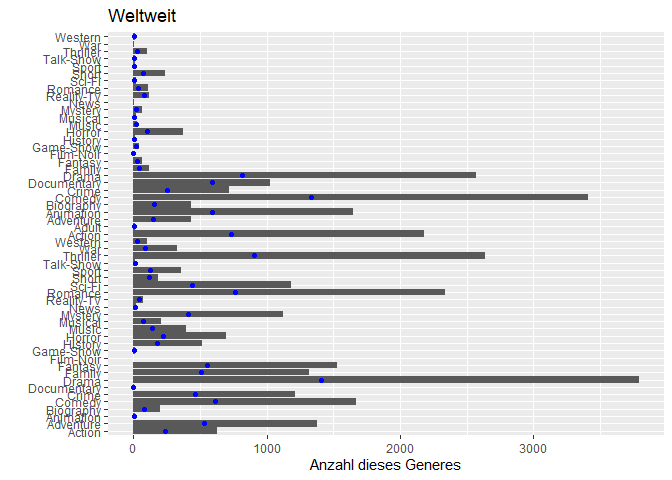
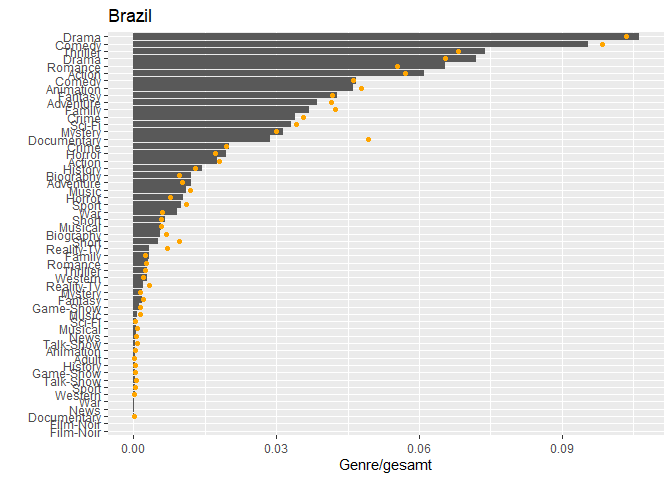
jtzt sauber, funtzt sogar, mit beobachtungen

diff --git a/Bericht_Henke_Keil_Reichmann.md b/Bericht_Henke_Keil_Reichmann.md
@@ -134,10 +134,10 @@ data %>%
 plots zu country und genere
 
 ``` r
-# vektoren mit zeilennamen zum angenehmen kopieren
+# vektoren mit zeilennamen zum einfacherern kopieren
 # c(colnames(data))
 
-columns_data = c("Title", "Genre" ,"Tags", "Languages", "Series or Movie", "Hidden Gem Score", "Country Availability", "Runtime", "Director", "Writer", "Actors", "View Rating", "IMDb Score", "Rotten Tomatoes Score", "Metacritic Score", "Awards Received", "Awards Nominated For", "Boxoffice", "Release Date", "Netflix Release Date", "Production House", "Netflix Link", "IMDb Link", "Summary", "IMDb Votes", "Image", "Poster", "TMDb Trailer", "Trailer Site")
+columns_data = c("Title", "Genre", "Tags", "Languages", "Series or Movie", "Hidden Gem Score", "Country Availability", "Runtime", "Director", "Writer", "Actors", "View Rating", "IMDb Score", "Rotten Tomatoes Score", "Metacritic Score", "Awards Received", "Awards Nominated For", "Boxoffice", "Release Date", "Netflix Release Date", "Production House", "Netflix Link", "IMDb Link", "Summary", "IMDb Votes", "Image", "Poster", "TMDb Trailer", "Trailer Site")
 
 columns_countries = c("Argentina", "Australia", "Belgium", "Brazil", "Canada", "Colombia", "Czech Republic", "France", "Germany", "Greece", "Hong Kong", "Hungary", "Iceland", "India", "Israel", "Italy", "Japan", "Lithuania", "Malaysia", "Mexico", "Netherlands", "Poland", "Portugal", "Romania", "Russia", "Singapore", "Slovakia", "South Africa", "South Korea", "Spain", "Sweden", "Switzerland", "Thailand", "Turkey", "United Kingdom", "United States")
 
@@ -145,99 +145,68 @@ columns_generes = c("Action", "Adult", "Adventure", "Animation", "Biography", "C
 
 #-------------------------------------------------------
 
-unimportand = c("Tags", "Languages", "Series or Movie", "Hidden Gem Score", "Runtime", "Director", "Writer", "Actors", "View Rating", "IMDb Score", "Rotten Tomatoes Score", "Metacritic Score", "Awards Received", "Awards Nominated For", "Boxoffice", "Release Date", "Netflix Release Date", "Production House", "Netflix Link", "IMDb Link", "Summary", "IMDb Votes", "Image", "Poster", "TMDb Trailer", "Trailer Site", "<NA>")
-
 sort_by_genre <- data%>%
+  select("Title", "Genre", "Country Availability")%>%
+  mutate(id = row_number())%>% # müssen eindeutig sein weil baum
   mutate("Yes" = TRUE)%>%
   separate_rows(Genre, sep = ", ")%>%
   spread(key = Genre, value = Yes)%>%
-  select(Title, `Country Availability`, columns_generes)
+  select(Title, `Country Availability`, columns_generes)%>%
+  separate_rows(`Country Availability`, sep = ",")
 #sort_by_genre
 
 sort_by_country <- data%>%
-  mutate("Yes" = TRUE)%>%
+  select("Title", "Genre", "Country Availability")%>%
+  mutate(id = row_number())%>% # müssen eindeutig sein weil baum
+  mutate("Yes" = TRUE)%>% 
   separate_rows(`Country Availability`, sep = ",")%>%
   spread(key = `Country Availability`, value = Yes)%>%
-  select(Title, Genre, columns_countries)
+  select(Title, Genre, columns_countries)%>%
+  separate_rows(Genre, sep = ",")
 #sort_by_country
-#----------------------
+
+#-------------------------------------------------------
 
 weltweit = sort_by_country%>%
-  separate_rows(Genre, sep = ",")%>%
-  ggplot(aes(y = reorder(Genre, Genre)))+
-  geom_histogram(stat="count")+
-  labs(title = "Weltweit",
-       x = "Anzahl dieses Generes", 
-       y = " ")
-weltweit
-
-germany <- sort_by_country%>%
-  separate_rows(Genre, sep = ",")%>%
-  filter(Germany == TRUE)%>%
-  ggplot(aes(y = reorder(Genre, Genre)))+
-  geom_histogram(stat="count", colour = "green")+
-  labs(title = "Germany",
-       x = "Anzahl dieses Generes", 
-       y = " ")
-
-  germany
-
-germany <- sort_by_country%>%
-  separate_rows(Genre, sep = ",")%>%
-  filter(Germany == TRUE)%>%
   count(Genre)%>%
-  ggplot()+
-  geom_point(aes(x = n, y = reorder(Genre, Genre)), colour = "green")
-germany
-#------------------------
-weltweit = sort_by_country%>%
-  separate_rows(Genre, sep = ",")%>%
-  count(Genre)%>%
-  drop_na()
-weltweit
-```
-
-    ## # A tibble: 55 x 2
-    ##    Genre              n
-    ##    <chr>          <int>
-    ##  1 " Action"        628
-    ##  2 " Adventure"    1380
-    ##  3 " Animation"      16
-    ##  4 " Biography"     203
-    ##  5 " Comedy"       1670
-    ##  6 " Crime"        1216
-    ##  7 " Documentary"     2
-    ##  8 " Drama"        3792
-    ##  9 " Family"       1316
-    ## 10 " Fantasy"      1529
-    ## # ... with 45 more rows
-
-``` r
-#---------------------
-total_specific <- sort_by_country%>%
-  count(France == TRUE)%>%
   drop_na()%>%
-  select(n)
+  mutate("prozent" = n/sum(n))
+#sum(weltweit$prozent)
+#---------------------
 
+for(i in columns_countries){
+  
 specific_country <- sort_by_country%>%
-  separate_rows(Genre, sep = ",")%>%
-  filter(Germany == TRUE)%>%
+  filter(!!as.symbol(i) == TRUE)%>% # ich rufe die gewünschte Spalte auf, obwohl ich nur einen Stig zur verfügung habe
   count(Genre)%>%
-  drop_na
+  drop_na()%>%
+  mutate("prozent" = n/sum(n))
+#sum(specific_country$prozent)
 
-sum(specific_country$n)
-```
-
-    ## [1] 13050
-
-``` r
-ggplot(NULL, aes(x = n, y = reorder(Genre, Genre))) +    # Draw ggplot2 plot based on two data frames
+my_plot = ggplot(NULL, aes(x = prozent, y = reorder(Genre, n))) +    # Draw ggplot2 plot based on two data frames
   geom_col(data = weltweit) +
-  geom_point(data = specific_country, col = "blue")+
-  labs(title = "Weltweit",
-       x = "Anzahl dieses Generes", 
+  geom_point(data = specific_country, col = "orange")+
+  labs(title = i,
+       x = "Genre/gesamt", 
        y = " ")
-#------------------------
+
+print(my_plot)
+}
 ```
 
-![](Bericht_Henke_Keil_Reichmann_files/figure-gfm/unnamed-chunk-4-1.png)![](Bericht_Henke_Keil_Reichmann_files/figure-gfm/unnamed-chunk-4-2.png)![](Bericht_Henke_Keil_Reichmann_files/figure-gfm/unnamed-chunk-4-3.png)![](Bericht_Henke_Keil_Reichmann_files/figure-gfm/unnamed-chunk-4-4.png)
+![](Bericht_Henke_Keil_Reichmann_files/figure-gfm/unnamed-chunk-4-1.png)![](Bericht_Henke_Keil_Reichmann_files/figure-gfm/unnamed-chunk-4-2.png)![](Bericht_Henke_Keil_Reichmann_files/figure-gfm/unnamed-chunk-4-3.png)![](Bericht_Henke_Keil_Reichmann_files/figure-gfm/unnamed-chunk-4-4.png)![](Bericht_Henke_Keil_Reichmann_files/figure-gfm/unnamed-chunk-4-5.png)![](Bericht_Henke_Keil_Reichmann_files/figure-gfm/unnamed-chunk-4-6.png)![](Bericht_Henke_Keil_Reichmann_files/figure-gfm/unnamed-chunk-4-7.png)![](Bericht_Henke_Keil_Reichmann_files/figure-gfm/unnamed-chunk-4-8.png)![](Bericht_Henke_Keil_Reichmann_files/figure-gfm/unnamed-chunk-4-9.png)![](Bericht_Henke_Keil_Reichmann_files/figure-gfm/unnamed-chunk-4-10.png)![](Bericht_Henke_Keil_Reichmann_files/figure-gfm/unnamed-chunk-4-11.png)![](Bericht_Henke_Keil_Reichmann_files/figure-gfm/unnamed-chunk-4-12.png)![](Bericht_Henke_Keil_Reichmann_files/figure-gfm/unnamed-chunk-4-13.png)![](Bericht_Henke_Keil_Reichmann_files/figure-gfm/unnamed-chunk-4-14.png)![](Bericht_Henke_Keil_Reichmann_files/figure-gfm/unnamed-chunk-4-15.png)![](Bericht_Henke_Keil_Reichmann_files/figure-gfm/unnamed-chunk-4-16.png)![](Bericht_Henke_Keil_Reichmann_files/figure-gfm/unnamed-chunk-4-17.png)![](Bericht_Henke_Keil_Reichmann_files/figure-gfm/unnamed-chunk-4-18.png)![](Bericht_Henke_Keil_Reichmann_files/figure-gfm/unnamed-chunk-4-19.png)![](Bericht_Henke_Keil_Reichmann_files/figure-gfm/unnamed-chunk-4-20.png)![](Bericht_Henke_Keil_Reichmann_files/figure-gfm/unnamed-chunk-4-21.png)![](Bericht_Henke_Keil_Reichmann_files/figure-gfm/unnamed-chunk-4-22.png)![](Bericht_Henke_Keil_Reichmann_files/figure-gfm/unnamed-chunk-4-23.png)![](Bericht_Henke_Keil_Reichmann_files/figure-gfm/unnamed-chunk-4-24.png)![](Bericht_Henke_Keil_Reichmann_files/figure-gfm/unnamed-chunk-4-25.png)![](Bericht_Henke_Keil_Reichmann_files/figure-gfm/unnamed-chunk-4-26.png)![](Bericht_Henke_Keil_Reichmann_files/figure-gfm/unnamed-chunk-4-27.png)![](Bericht_Henke_Keil_Reichmann_files/figure-gfm/unnamed-chunk-4-28.png)![](Bericht_Henke_Keil_Reichmann_files/figure-gfm/unnamed-chunk-4-29.png)![](Bericht_Henke_Keil_Reichmann_files/figure-gfm/unnamed-chunk-4-30.png)![](Bericht_Henke_Keil_Reichmann_files/figure-gfm/unnamed-chunk-4-31.png)![](Bericht_Henke_Keil_Reichmann_files/figure-gfm/unnamed-chunk-4-32.png)![](Bericht_Henke_Keil_Reichmann_files/figure-gfm/unnamed-chunk-4-33.png)![](Bericht_Henke_Keil_Reichmann_files/figure-gfm/unnamed-chunk-4-34.png)![](Bericht_Henke_Keil_Reichmann_files/figure-gfm/unnamed-chunk-4-35.png)![](Bericht_Henke_Keil_Reichmann_files/figure-gfm/unnamed-chunk-4-36.png)
+beobachtungen:
+
+-   warum zum kuckuck ist Documentary die ganze zeit so ein ausreisser??
+
+-   short ist auch oft zu hoch
+
+-> vllt muss statt dem weltweiten der durchschnitt der daten für die
+spezifischen länder berechnet werden
+
+-   es scheinen sich eher die unbeliebteren genres zu vertauschen
+
+-   deutschland ist voll im Durchschnitt und damit langweilig
+
+-   halbwegs interessant finde ich: Japan, United States, south africa,
+    mexico, lithuania, columbia (mehr oder weniger willkürliche wahl,)
